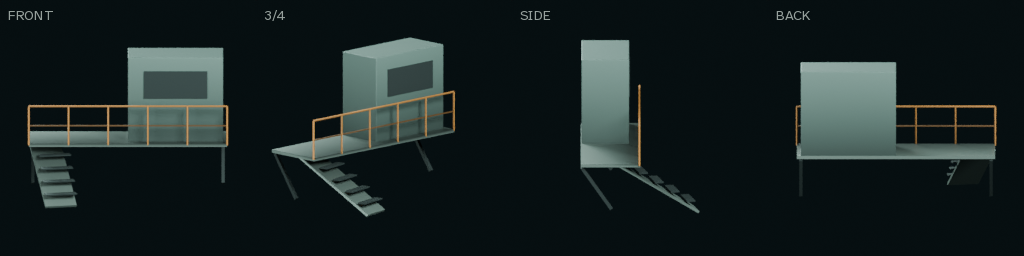
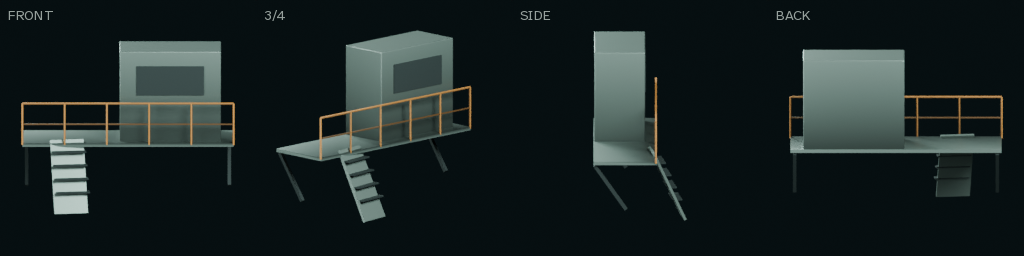
Hang the catwalk stair steeper so the office turnaround frames cleanly
Claude-Session: https://claude.ai/code/session_012H4uhmvvkQfLFzrNbAoYsm

Changed region(s): [[0.0, 0.125, 0.4688, 0.875], [0.75, 0.1875, 1.0, 0.7812], [0.5625, 0.0938, 0.6875, 0.8438]]

diff --git a/tools/assets/props_wreck_containment.py b/tools/assets/props_wreck_containment.py
@@ -135,16 +135,17 @@ def build_catwalk_office() -> None:
         _tube(f"RailPost{i}", [(x, back - 1.48, deck), (x, back - 1.48, deck + 1.0)], 0.025, 0.025, m["hazard"])
     box("RailTop", (5.0, 0.04, 0.04), (0, back - 1.48, deck + 1.0), m["hazard"])
     box("RailMid", (5.0, 0.03, 0.03), (0, back - 1.48, deck + 0.5), m["hazard"])
-    box("Office", (2.4, 1.2, 2.2), (1.2, back - 0.62, deck + 1.1), m["steel"], bevel=0.02)
-    box("Window", (1.6, 0.02, 0.7), (1.2, back - 1.23, deck + 1.5), m["dark"])
+    box("Office", (2.4, 1.2, 2.2), (1.0, back - 0.62, deck + 1.1), m["steel"], bevel=0.02)
+    box("Window", (1.6, 0.02, 0.7), (1.0, back - 1.23, deck + 1.5), m["dark"])
     for i, x in enumerate((-2.4, 2.4)):
         brace = box(f"Brace{i}", (0.08, 0.08, 1.3), (x, back - 0.4, deck - 0.6), m["dark"])
         brace.rotation_euler = (math.radians(-35), 0, 0)
-    stair = box("Stair", (0.8, 2.4, 0.06), (-1.9, back - 1.9, deck * 0.5), m["steel"])
-    stair.rotation_euler = (math.radians(32), 0, math.radians(12))
-    for i in range(5):
-        tread = box(f"Tread{i}", (0.8, 0.22, 0.03), (-1.9 + 0.05 * i, back - 1.1 - i * 0.4, deck - 0.25 * i), m["dark"])
-        tread.rotation_euler = (0, 0, math.radians(12))
+    stair = box("Stair", (0.8, 1.8, 0.06), (-1.4, back - 1.75, deck * 0.45), m["steel"])
+    stair.rotation_euler = (math.radians(65), 0, math.radians(8))
+    for i in range(4):
+        z = deck - 0.15 - 0.3 * i
+        tread = box(f"Tread{i}", (0.8, 0.22, 0.03), (-1.4 + 0.03 * i, back - 1.55 - i * 0.13, z), m["dark"])
+        tread.rotation_euler = (0, 0, math.radians(8))
     p._merge("CatwalkOffice")
 
 
